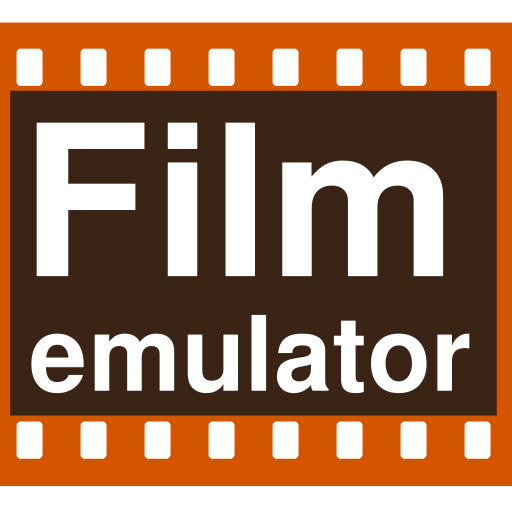
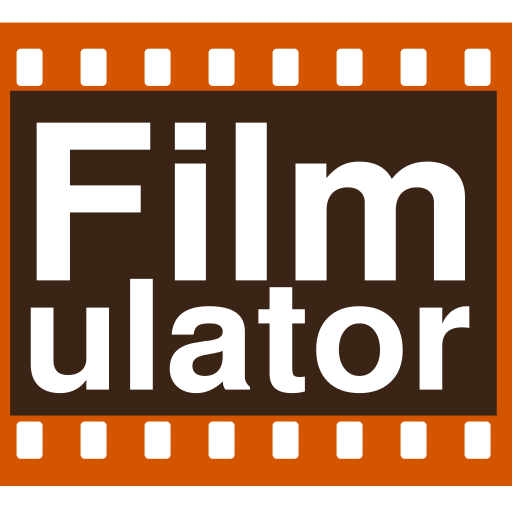
v0.9.1 release

Changed region(s): [[0.0312, 0.2188, 0.9375, 0.7812], [0.0625, 0.2812, 0.2812, 0.5625]]

diff --git a/v0-9-1/index.html b/v0-9-1/index.html
@@ -57,70 +57,42 @@
 
         <div class="content container">
             
-                <div class="posts">
-                    
-                      <div class="post">
-                        <h1 class="post-title">
-                          <a href="https:&#x2F;&#x2F;filmulator.org&#x2F;download&#x2F;">
-                            Download Filmulator
-                          </a>
-                        </h1>
+<div class="post">
+  <h1 class="post-title">Filmulator version 0.9.1</h1>
+  <span class="post-date">2020-10-27</span>
+  <p>In trying to keep releases more frequent, here's Filmulator version 0.9.1!</p>
+<p>The following are the changes since version 0.9.0:</p>
+<h2 id="processing">Processing</h2>
+<ul>
+<li>The film area is revealed numerically instead of being SF, MF, or LF.</li>
+<li>A bug when shadow rolloff + highlight rolloff exceeded 1 has been fixed.</li>
+<li>When initiating cropping, the grab handles briefly flash, to help onboard new users.</li>
+</ul>
+<h2 id="organize">Organize</h2>
+<ul>
+<li>Images briefly flash when enqueued via double-clicking, to provide feedback.</li>
+<li>The date histogram scrollbar becomes transparent when hovered so that it doesn't cover up the dates completely.</li>
+<li>Max rating is now properly labeled.</li>
+</ul>
+<h2 id="general">General</h2>
+<ul>
+<li>The queue now jumps to the active image when you switch images via left/right arrow keys.</li>
+<li>If a path to a raw file is given as a command-line argument, it will import and automatically load the image on startup.</li>
+<li>German translations are not available, courtesy Luemmel from discuss.pixls.us.</li>
+<li>Certain parts of the UI were widened to make room for the German translation.</li>
+<li>EXIF writing was enabled for TIFFs. This can be a bit glitchy sometimes though in terms of other programs opening the files, though.</li>
+<li>The icon was tweaked to match the name better.</li>
+</ul>
+<p>Builds are available for Linux and Windows, but still no MacOS builds are available at this time. Please get in touch if you can help set up CI for MacOS builds.</p>
+<p>Downloads:</p>
+<ul>
+<li><a href="https://github.com/CarVac/filmulator-gui/releases/download/v0.9.1/Filmulator_v0.9.1.AppImage">Filmulator v0.9.1 Linux AppImage</a></li>
+<li><a href="https://github.com/CarVac/filmulator-gui/releases/download/v0.9.1/Filmulator_v0.9.1.exe">Filmulator v0.9.1 Windows Installer</a></li>
+</ul>
+<p>You can discuss the release <a href="https://discuss.pixls.us/t/filmulator-v0-9-1-released/21029">here on our official forum</a> or <a href="https://www.reddit.com/r/Filmulator/">on our subreddit</a>.</p>
 
-                        <span class="post-date">2020-07-04</span>
-                      </div>
-                    
-                      <div class="post">
-                        <h1 class="post-title">
-                          <a href="https:&#x2F;&#x2F;filmulator.org&#x2F;comparison&#x2F;">
-                            Filmulator Comparisons
-                          </a>
-                        </h1>
+</div>
 
-                        <span class="post-date">2020-07-04</span>
-                      </div>
-                    
-                      <div class="post">
-                        <h1 class="post-title">
-                          <a href="https:&#x2F;&#x2F;filmulator.org&#x2F;about&#x2F;">
-                            About Filmulator
-                          </a>
-                        </h1>
-
-                        <span class="post-date">2020-07-04</span>
-                      </div>
-                    
-                      <div class="post">
-                        <h1 class="post-title">
-                          <a href="https:&#x2F;&#x2F;filmulator.org&#x2F;v0-9-1&#x2F;">
-                            Filmulator version 0.9.1
-                          </a>
-                        </h1>
-
-                        <span class="post-date">2020-10-27</span>
-                      </div>
-                    
-                      <div class="post">
-                        <h1 class="post-title">
-                          <a href="https:&#x2F;&#x2F;filmulator.org&#x2F;v0-9-0&#x2F;">
-                            Filmulator version 0.9.0
-                          </a>
-                        </h1>
-
-                        <span class="post-date">2020-09-17</span>
-                      </div>
-                    
-                      <div class="post">
-                        <h1 class="post-title">
-                          <a href="https:&#x2F;&#x2F;filmulator.org&#x2F;scrollbars&#x2F;">
-                            Scrollbars in Filmulator
-                          </a>
-                        </h1>
-
-                        <span class="post-date">2020-08-29</span>
-                      </div>
-                    
-                </div>
-            
 
         </div>
 
